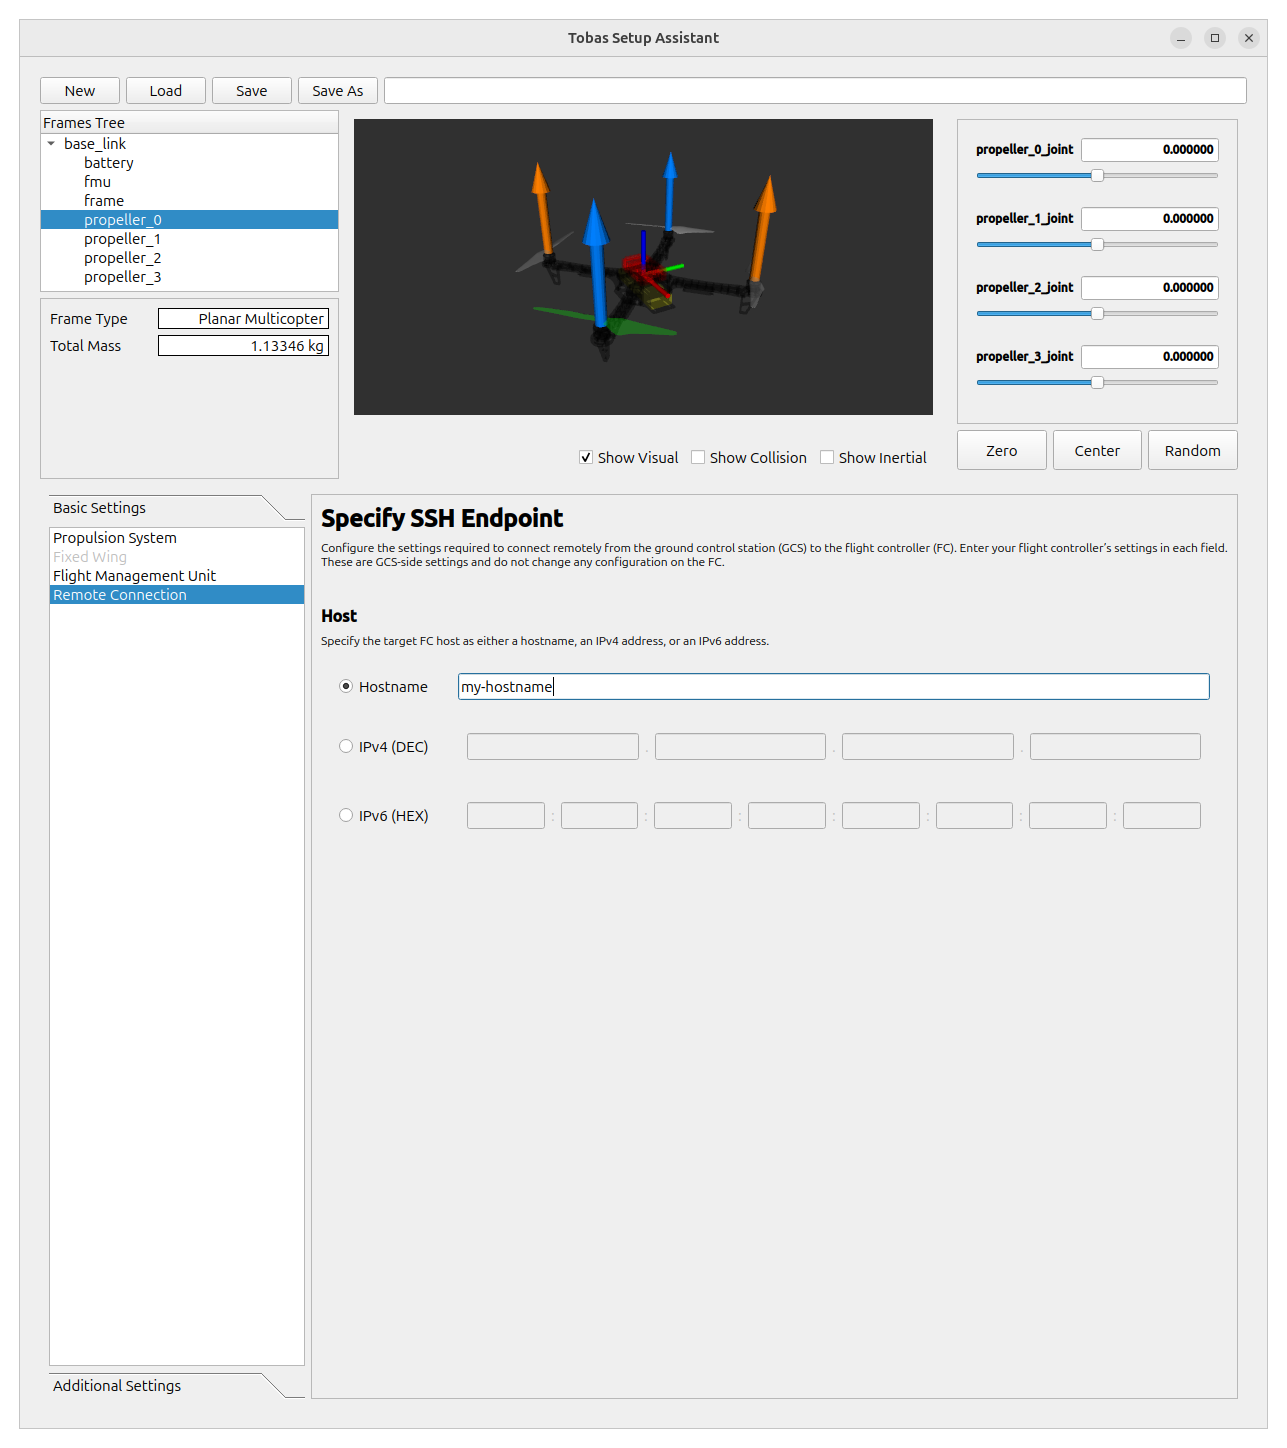
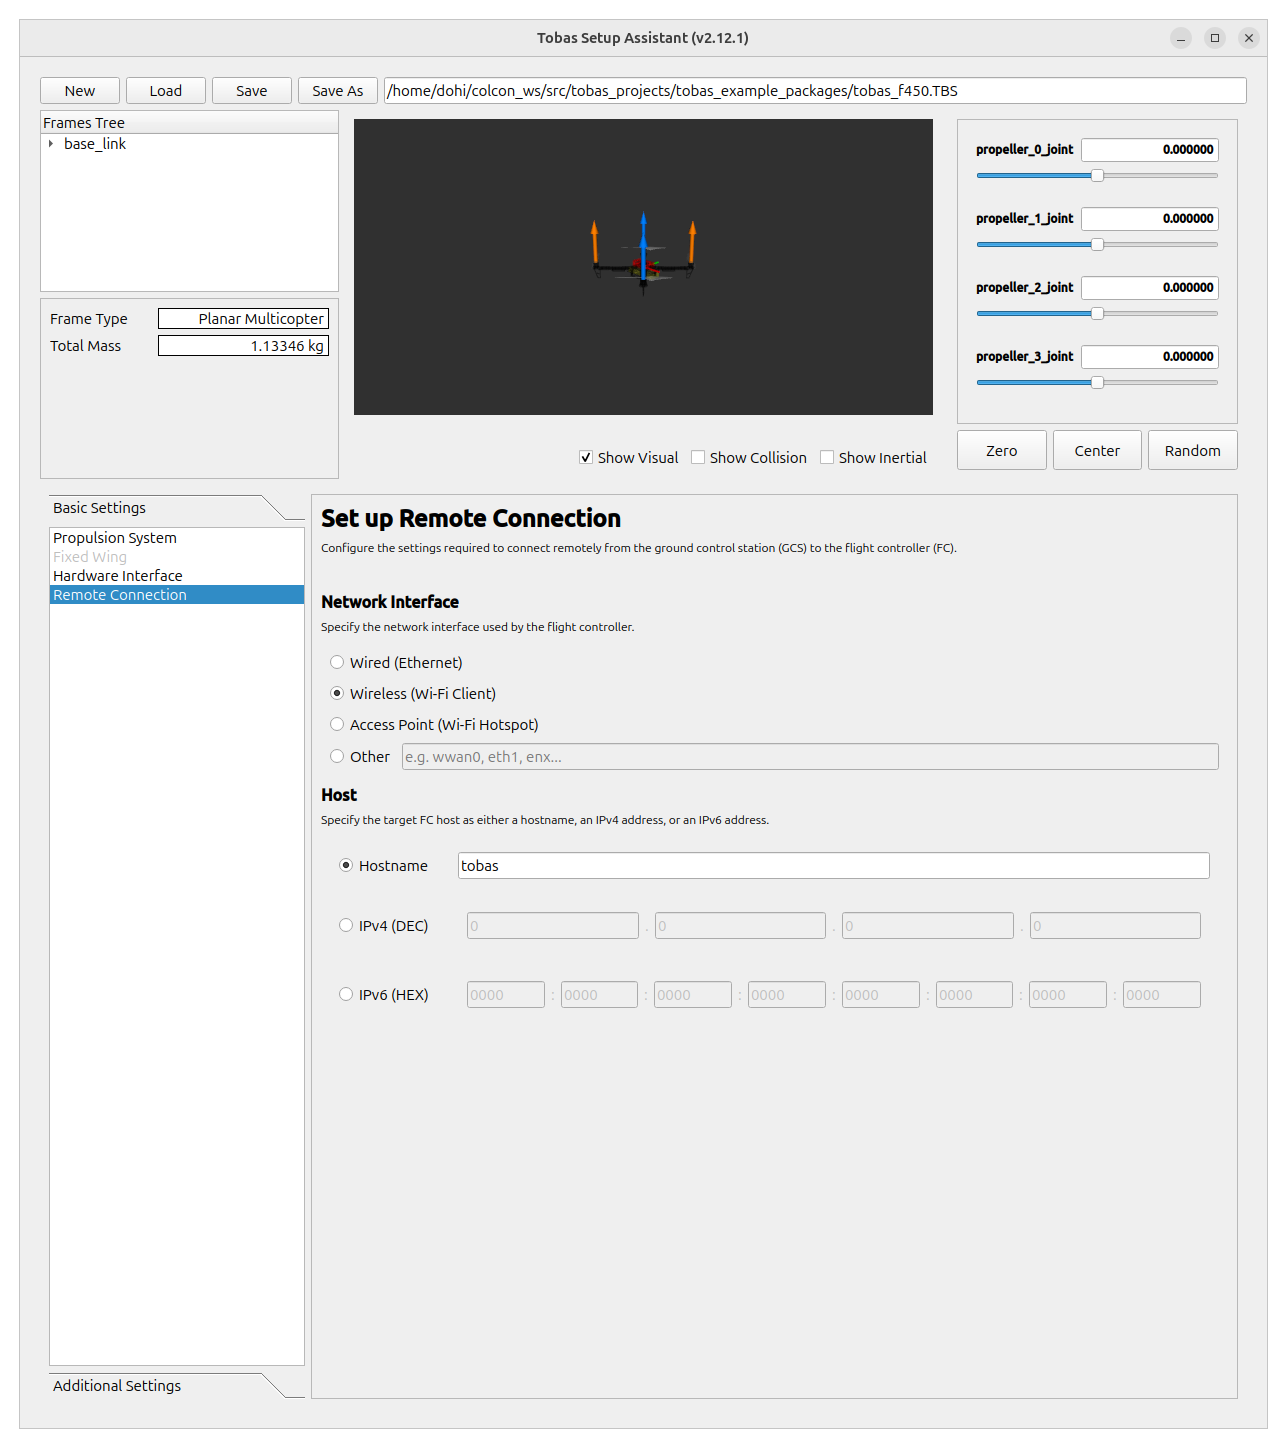
edit: remote connection

diff --git a/docs/setup_assistant.md b/docs/setup_assistant.md
@@ -112,8 +112,20 @@ $ ros2 launch tobas_setup_assistant setup_assistant.launch.py
 ---
 
 地上局から FC に遠隔で接続するための設定を行います．
-`Hostname`を選択し，[Boot Device Configuration](./bootmedia_config.md)で設定した FC のホスト名を入力してください．
-FC 側に固定 IP を振っている場合は，それを指定することもできます．
+
+### Network Interface
+
+FCが外部と通信する際に使用するネットワークインターフェースを指定します．
+今回はFCとGCSの通信にポケットWi-Fiを使うため，`Wireless`を選択します．
+有線LANを使用する場合は`Wired`，
+外部の通信モジュールを使わずラズパイ内臓のアクセスポイントを使用する場合は`Access Point`を選択してください．
+これら以外の構成場合，例えばVPNのインターフェース`tun0`を使う場合などは，`Other`を選択し直接インターフェース名を指定してください．
+
+### Host
+
+GCSがLAN内でFCを識別するためのアドレスの設定を行います．
+FCのIPを固定していればそれを直接使用することもできますが，今回は手軽なホスト名を使用することにします．
+`Hostname`を選択し，[Boot Device Configuration](./bootmedia_config.md)で設定したFCのホスト名を入力してください．
 
 ![remote_connection](resources/setup_assistant/remote_connection.png)
 
